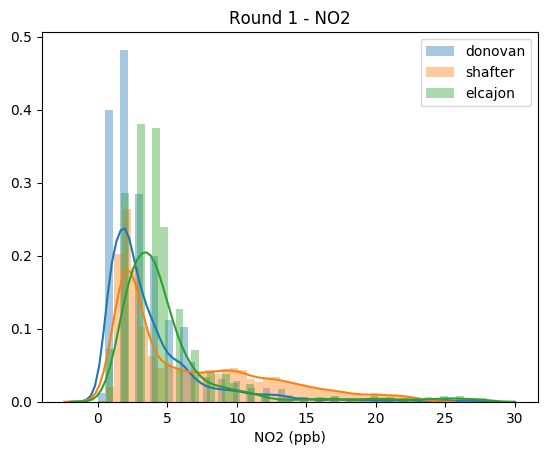
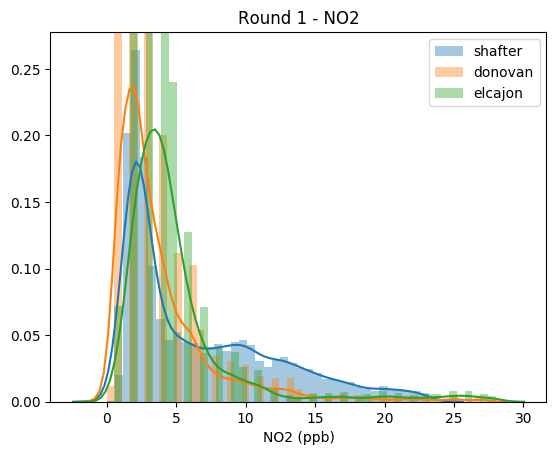
updated tex

diff --git a/results/distributions/location_summary.tex b/results/distributions/location_summary.tex
@@ -1,31 +1,31 @@
 \begin{tabular}{llrrrrr}
 \toprule
-        &       &       epa-no2 &        epa-o3 &   temperature &      pressure &      humidity \\
-Location & {} &               &               &               &               &               \\
+        &       &        epa-no2 &         epa-o3 &    temperature &       pressure &       humidity \\
+Location & {} &                &                &                &                &                \\
 \midrule
-donovan & count &      0.000000 &      0.000000 &      0.000000 &      0.000000 &      0.000000 \\
-        & mean &           NaN &           NaN &           NaN &           NaN &           NaN \\
-        & std &           NaN &           NaN &           NaN &           NaN &           NaN \\
-        & min &           NaN &           NaN &           NaN &           NaN &           NaN \\
-        & 25\% &           NaN &           NaN &           NaN &           NaN &           NaN \\
-        & 50\% &           NaN &           NaN &           NaN &           NaN &           NaN \\
-        & 75\% &           NaN &           NaN &           NaN &           NaN &           NaN \\
-        & max &           NaN &           NaN &           NaN &           NaN &           NaN \\
-elcajon & count &  97412.000000 &  97412.000000 &  97412.000000 &  97412.000000 &  97412.000000 \\
-        & mean &     12.913902 &     29.331499 &     24.341702 &    997.287606 &     43.923309 \\
-        & std &      9.732174 &     19.337040 &      8.232391 &      3.507203 &     20.076611 \\
-        & min &     -3.000000 &      1.000000 &      5.430000 &    989.230000 &      2.733000 \\
-        & 25\% &      5.000000 &     11.000000 &     18.570000 &    994.880000 &     28.623000 \\
-        & 50\% &     10.000000 &     31.000000 &     23.380000 &    996.890000 &     45.052500 \\
-        & 75\% &     20.000000 &     43.000000 &     29.700000 &    999.450000 &     61.166250 \\
-        & max &     66.000000 &     95.000000 &     49.790000 &   1010.480000 &     85.827000 \\
-shafter & count &      0.000000 &      0.000000 &      0.000000 &      0.000000 &      0.000000 \\
-        & mean &           NaN &           NaN &           NaN &           NaN &           NaN \\
-        & std &           NaN &           NaN &           NaN &           NaN &           NaN \\
-        & min &           NaN &           NaN &           NaN &           NaN &           NaN \\
-        & 25\% &           NaN &           NaN &           NaN &           NaN &           NaN \\
-        & 50\% &           NaN &           NaN &           NaN &           NaN &           NaN \\
-        & 75\% &           NaN &           NaN &           NaN &           NaN &           NaN \\
-        & max &           NaN &           NaN &           NaN &           NaN &           NaN \\
+donovan & count &  100788.000000 &  100788.000000 &  100788.000000 &  100788.000000 &  100788.000000 \\
+        & mean &      10.434129 &      33.742192 &      24.169544 &     991.767126 &      45.937553 \\
+        & std &      10.806456 &      15.377393 &       5.623704 &       3.225557 &      21.965513 \\
+        & min &      -2.000000 &      -1.000000 &      13.900000 &     982.820000 &       4.086000 \\
+        & 25\% &       3.000000 &      24.000000 &      20.100000 &     989.530000 &      27.245000 \\
+        & 50\% &       7.000000 &      35.000000 &      22.620000 &     991.460000 &      49.513000 \\
+        & 75\% &      14.000000 &      43.000000 &      27.000000 &     993.610000 &      64.396000 \\
+        & max &     157.000000 &      96.000000 &      49.710000 &    1004.160000 &      92.753000 \\
+elcajon & count &   97412.000000 &   97412.000000 &   97412.000000 &   97412.000000 &   97412.000000 \\
+        & mean &      12.913902 &      29.331499 &      24.341702 &     997.287606 &      43.923309 \\
+        & std &       9.732174 &      19.337040 &       8.232391 &       3.507203 &      20.076611 \\
+        & min &      -3.000000 &       1.000000 &       5.430000 &     989.230000 &       2.733000 \\
+        & 25\% &       5.000000 &      11.000000 &      18.570000 &     994.880000 &      28.623000 \\
+        & 50\% &      10.000000 &      31.000000 &      23.380000 &     996.890000 &      45.052500 \\
+        & 75\% &      20.000000 &      43.000000 &      29.700000 &     999.450000 &      61.166250 \\
+        & max &      66.000000 &      95.000000 &      49.790000 &    1010.480000 &      85.827000 \\
+shafter & count &  119785.000000 &  119785.000000 &  119785.000000 &  119785.000000 &  119785.000000 \\
+        & mean &      12.578259 &      26.356119 &      22.100842 &    1003.882723 &      45.804388 \\
+        & std &       9.078981 &      20.740426 &       8.184091 &       5.595797 &      18.072375 \\
+        & min &       0.000000 &      -6.200000 &       4.010000 &     872.755556 &       6.349000 \\
+        & 25\% &       4.700000 &       7.800000 &      16.155556 &     999.750000 &      30.585000 \\
+        & 50\% &      10.800000 &      22.300000 &      21.040000 &    1003.990000 &      46.763000 \\
+        & 75\% &      19.000000 &      41.200000 &      27.200000 &    1007.400000 &      60.965000 \\
+        & max &     594.600000 &     110.400000 &      47.700000 &    1019.580000 &      85.047000 \\
 \bottomrule
 \end{tabular}

diff --git a/results/distributions/round_summary.tex b/results/distributions/round_summary.tex
@@ -1,31 +1,31 @@
 \begin{tabular}{llrrrrr}
 \toprule
-  &       &       epa-no2 &        epa-o3 &   temperature &      pressure &      humidity \\
-Round & {} &               &               &               &               &               \\
+  &       &        epa-no2 &         epa-o3 &    temperature &       pressure &       humidity \\
+Round & {} &                &                &                &                &                \\
 \midrule
-1 & count &  15723.000000 &  15723.000000 &  15723.000000 &  15723.000000 &  15723.000000 \\
-  & mean &      5.375374 &     37.842333 &     28.375555 &    995.170431 &     44.869703 \\
-  & std &      5.227313 &     11.833789 &      6.080147 &      1.439783 &     13.750363 \\
-  & min &      0.000000 &      2.000000 &     17.000000 &    990.970000 &      9.644000 \\
-  & 25\% &      3.000000 &     31.000000 &     24.500000 &    994.200000 &     33.556000 \\
-  & 50\% &      4.000000 &     38.000000 &     26.510000 &    995.210000 &     46.790000 \\
-  & 75\% &      6.000000 &     45.000000 &     32.785000 &    996.280000 &     57.115500 \\
-  & max &     35.000000 &     68.000000 &     43.900000 &    998.150000 &     67.232000 \\
-2 & count &  26803.000000 &  26803.000000 &  26803.000000 &  26803.000000 &  26803.000000 \\
-  & mean &     11.255792 &     38.252957 &     27.147957 &    994.747910 &     44.478690 \\
-  & std &      8.068776 &     20.610387 &      7.696962 &      2.555450 &     21.043390 \\
-  & min &     -1.000000 &      2.000000 &     14.400000 &    989.230000 &      4.420000 \\
-  & 25\% &      5.000000 &     22.000000 &     21.145000 &    993.060000 &     27.277000 \\
-  & 50\% &      8.000000 &     37.000000 &     25.190000 &    994.770000 &     45.296000 \\
-  & 75\% &     16.000000 &     54.000000 &     33.170000 &    996.370000 &     64.053000 \\
-  & max &     47.000000 &     95.000000 &     48.180000 &   1001.120000 &     85.827000 \\
-3 & count &  54886.000000 &  54886.000000 &  54886.000000 &  54886.000000 &  54886.000000 \\
-  & mean &     15.883158 &     22.536731 &     21.815733 &    999.134339 &     43.380984 \\
-  & std &     10.101637 &     17.615405 &      8.116390 &      3.194355 &     21.077738 \\
-  & min &     -3.000000 &      1.000000 &      5.430000 &    991.280000 &      2.733000 \\
-  & 25\% &      7.000000 &      5.000000 &     16.250000 &    997.000000 &     25.609250 \\
-  & 50\% &     14.000000 &     20.000000 &     20.300000 &    999.000000 &     44.162500 \\
-  & 75\% &     24.000000 &     37.000000 &     26.070000 &   1000.830000 &     62.523000 \\
-  & max &     66.000000 &     85.000000 &     49.790000 &   1010.480000 &     85.440000 \\
+1 & count &   49779.000000 &   49779.000000 &   49779.000000 &   49779.000000 &   49779.000000 \\
+  & mean &       5.510173 &      36.010330 &      26.061407 &     994.458473 &      48.324276 \\
+  & std &       5.472665 &      13.867920 &       6.776587 &       4.786306 &      19.538803 \\
+  & min &       0.000000 &       1.300000 &      13.100000 &     872.755556 &       9.644000 \\
+  & 25\% &       2.000000 &      28.000000 &      20.900000 &     990.920000 &      31.793000 \\
+  & 50\% &       3.700000 &      37.300000 &      24.600000 &     995.240000 &      50.513000 \\
+  & 75\% &       6.600000 &      45.000000 &      30.130000 &     997.640000 &      61.526500 \\
+  & max &      57.000000 &     110.400000 &      47.700000 &    1002.940000 &      92.753000 \\
+2 & count &   75129.000000 &   75129.000000 &   75129.000000 &   75129.000000 &   75129.000000 \\
+  & mean &      11.915875 &      36.973669 &      25.952835 &     995.989062 &      41.511134 \\
+  & std &       9.583090 &      21.259456 &       7.576508 &       6.074511 &      19.756994 \\
+  & min &      -1.000000 &      -2.400000 &      12.000000 &     982.820000 &       4.420000 \\
+  & 25\% &       5.000000 &      19.200000 &      20.000000 &     990.990000 &      23.461000 \\
+  & 50\% &       8.000000 &      36.000000 &      24.400000 &     995.420000 &      41.539000 \\
+  & 75\% &      17.900000 &      53.000000 &      31.710000 &    1000.710000 &      56.961000 \\
+  & max &      82.000000 &      96.000000 &      48.180000 &    1009.890000 &      87.562000 \\
+3 & count &  193077.000000 &  193077.000000 &  193077.000000 &  193077.000000 &  193077.000000 \\
+  & mean &      13.708376 &      25.092386 &      21.791316 &     999.732162 &      45.945741 \\
+  & std &      10.225285 &      17.803517 &       7.275538 &       6.707979 &      20.012530 \\
+  & min &      -3.000000 &      -6.200000 &       4.010000 &     986.770000 &       2.733000 \\
+  & 25\% &       5.100000 &       8.000000 &      17.190000 &     994.300000 &      30.192000 \\
+  & 50\% &      11.600000 &      24.700000 &      21.000000 &     999.090000 &      48.470000 \\
+  & 75\% &      20.000000 &      38.500000 &      25.780000 &    1004.690000 &      63.450000 \\
+  & max &     594.600000 &      87.900000 &      49.790000 &    1019.580000 &      85.440000 \\
 \bottomrule
 \end{tabular}
